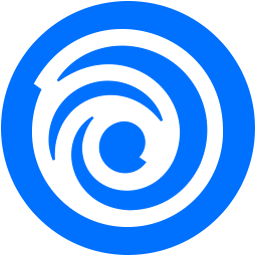
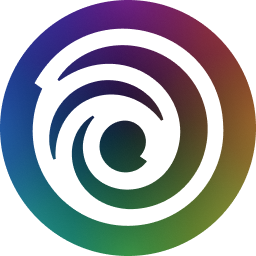
New: Support for Ubisoft Connect

diff --git a/source/Plugins/UplayLibrary/UplayGameController.cs b/source/Plugins/UplayLibrary/UplayGameController.cs
@@ -41,27 +41,20 @@ namespace UplayLibrary
         public override void Play()
         {
             ReleaseResources();
-            if (Game.PlayAction.Type == GameActionType.URL && Game.PlayAction.Path.StartsWith("uplay", StringComparison.OrdinalIgnoreCase))
+            OnStarting(this, new GameControllerEventArgs(this, 0));
+            if (Directory.Exists(Game.InstallDirectory))
             {
-                OnStarting(this, new GameControllerEventArgs(this, 0));
-                if (Directory.Exists(Game.InstallDirectory))
-                {
-                    var requiresUplay = Uplay.GetGameRequiresUplay(Game);
-                    stopWatch = Stopwatch.StartNew();
-                    procMon = new ProcessMonitor();
-                    procMon.TreeStarted += ProcMon_TreeStarted;
-                    procMon.TreeDestroyed += Monitor_TreeDestroyed;
-                    GameActionActivator.ActivateAction(Game.PlayAction);
-                    StartRunningWatcher(requiresUplay);
-                }
-                else
-                {
-                    OnStopped(this, new GameControllerEventArgs(this, 0));
-                }
+                var requiresUplay = Uplay.GetGameRequiresUplay(Game);
+                stopWatch = Stopwatch.StartNew();
+                procMon = new ProcessMonitor();
+                procMon.TreeStarted += ProcMon_TreeStarted;
+                procMon.TreeDestroyed += Monitor_TreeDestroyed;
+                ProcessStarter.StartUrl(Uplay.GetLaunchString(Game.GameId));
+                StartRunningWatcher(requiresUplay);
             }
             else
             {
-                throw new Exception("Unknown Play action configuration.");
+                OnStopped(this, new GameControllerEventArgs(this, 0));
             }
         }
 
@@ -122,7 +115,7 @@ namespace UplayLibrary
         public async void StartInstallWatcher()
         {
             watcherToken = new CancellationTokenSource();
-   
+
             while (true)
             {
                 if (watcherToken.IsCancellationRequested)
@@ -150,7 +143,7 @@ namespace UplayLibrary
         public async void StartUninstallWatcher()
         {
             watcherToken = new CancellationTokenSource();
-        
+
             while (true)
             {
                 if (watcherToken.IsCancellationRequested)

diff --git a/source/Plugins/UplayLibrary/Uplay.cs b/source/Plugins/UplayLibrary/Uplay.cs
@@ -22,7 +22,7 @@ namespace UplayLibrary
             get
             {
                 var path = InstallationPath;
-                return string.IsNullOrEmpty(path) ? string.Empty : Path.Combine(path, "Uplay.exe");
+                return string.IsNullOrEmpty(path) ? string.Empty : Path.Combine(path, "UbisoftConnect.exe");
             }
         }
 
@@ -30,7 +30,7 @@ namespace UplayLibrary
         {
             get
             {
-                var progs = Programs.GetUnistallProgramsList().FirstOrDefault(a => a.DisplayName == "Uplay");
+                var progs = Programs.GetUnistallProgramsList().FirstOrDefault(a => a.DisplayName == "Ubisoft Connect");
                 if (progs == null)
                 {
                     return string.Empty;
@@ -62,7 +62,7 @@ namespace UplayLibrary
         {
             get
             {
-                var progs = Programs.GetUnistallProgramsList().FirstOrDefault(a => a.DisplayName == "Uplay");
+                var progs = Programs.GetUnistallProgramsList().FirstOrDefault(a => a.DisplayName == "Ubisoft Connect");
                 if (progs == null)
                 {
                     return false;
@@ -85,6 +85,11 @@ namespace UplayLibrary
 
             var fileEnumerator = new SafeFileEnumerator(game.InstallDirectory, "uplay_*_loader*", SearchOption.AllDirectories);
             return fileEnumerator.Any() == true;
+        }
+
+        public static string GetLaunchString(string gameId)
+        {
+            return $"uplay://launch/{gameId}";
         }
 
         public static List<ProductInformation> GetLocalProductCache()

diff --git a/source/Plugins/UplayLibrary/UplayLibrary.cs b/source/Plugins/UplayLibrary/UplayLibrary.cs
@@ -30,7 +30,7 @@ namespace UplayLibrary
             return new GameAction()
             {
                 Type = GameActionType.URL,
-                Path = @"uplay://launch/" + id,
+                Path = Uplay.GetLaunchString(id),
                 IsHandledByPlugin = true
             };
         }
@@ -77,7 +77,7 @@ namespace UplayLibrary
                     BackgroundImage = item.root.background_image,
                     Icon = item.root.icon_image,
                     CoverImage = item.root.thumb_image,
-                    Source = "Uplay",
+                    Source = "Ubisoft Connect",
                     Platform = "PC"
                 };
 
@@ -110,7 +110,7 @@ namespace UplayLibrary
                         var newGame = new GameInfo()
                         {
                             GameId = install,
-                            Source = "Uplay",
+                            Source = "Ubisoft Connect",
                             InstallDirectory = installDir,
                             PlayAction = GetGamePlayTask(install),
                             Name = Path.GetFileName(installDir.TrimEnd(Path.DirectorySeparatorChar)),
@@ -132,7 +132,7 @@ namespace UplayLibrary
 
         public override string LibraryIcon => Uplay.Icon;
 
-        public override string Name => "Uplay";
+        public override string Name => "Ubisoft Connect";
 
         public override Guid Id => Guid.Parse("C2F038E5-8B92-4877-91F1-DA9094155FC5");
 
